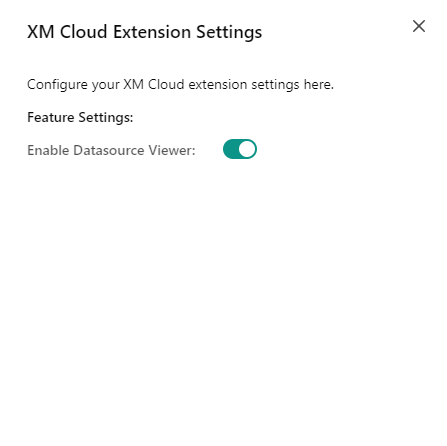
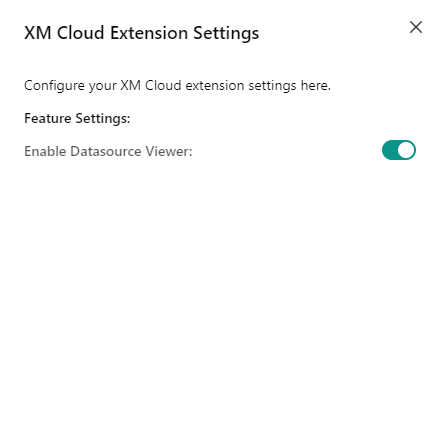
saving screens

diff --git a/popup/settings.tsx b/popup/settings.tsx
@@ -2,9 +2,11 @@ declare const chrome: any;
 
 import {
     Box,
+    Flex,
     FormControl,
     FormLabel,
     SimpleGrid,
+    Spacer,
     Stack,
     Switch,
     Text,
@@ -17,7 +19,7 @@ const Settings = () => {
     const [datasourceEnabled, setDatasourceEnabled] = useState(true);
 
     useEffect(() => {
-        // Load extension settings on component mount
+        // Load extension settings
         chrome.storage.sync.get('datasourceEnabled', (result: { datasourceEnabled?: boolean }) => {
             setDatasourceEnabled(result.datasourceEnabled ?? true);
         });
@@ -43,26 +45,28 @@ const Settings = () => {
                 </Text>
             </Box>
 
-            {/* Datasource Viewer Setting */}
+            {/* Feature list */}
             <Box>
-                <FormControl as={SimpleGrid} columns={{ base: 2, lg: 4 }}>
-                    <FormLabel htmlFor='datasourceSwitch'>
+                <FormControl as={SimpleGrid}>
+                    <Flex>
                         <Tooltip
                             label="Displays direct Explorer/Content Editor link for data source items in the 'Assign Content Item' dialog">
-                            Enable Datasource Viewer:
+                            <FormLabel htmlFor='datasourceSwitch'>
+                                Enable Datasource Viewer:
+                            </FormLabel>
                         </Tooltip>
-                    </FormLabel>
-                    <Switch
-                        id='datasourceSwitch'
-                        isChecked={datasourceEnabled}
-                        onChange={handleSwitchChange}
-                    />
-                </FormControl>
-            </Box>
+                        <Spacer />
+                        <Switch
+                            id='datasourceSwitch'
+                            isChecked={datasourceEnabled}
+                            onChange={handleSwitchChange}
+                        />
 
-            {/* Additional settings or components can be added here */}
+                    </Flex>
+                </FormControl>
+                {/* Additional feature switches can be added here */}
+            </Box>
             <Wrap>
-                {/* Additional settings or components can be added here */}
             </Wrap>
         </Stack>
     );

diff --git a/content-script/datasource-viewer.ts b/content-script/datasource-viewer.ts
@@ -59,7 +59,7 @@ const datasourceViewer = () => {
         mutations.forEach((mutation) => {
           mutation.addedNodes.forEach((addedNode) => {
             if (addedNode instanceof HTMLElement && addedNode.closest('app-datasource-picker')) {
-              console.log('DOM changed from extension within app-datasource-picker');
+              console.debug('DOM changed from extension within app-datasource-picker');
 
               const elementsWithDataItemId = addedNode.querySelectorAll('[data-itemid]') as NodeListOf<HTMLElement>;
 
@@ -79,7 +79,7 @@ const datasourceViewer = () => {
                   const explorerUrl = constructExplorerUrl(queryParams);
                   const contentEditorUrl = constructContentEditorUrl(queryParams);
                   const linkSpan = createLinkSpan(explorerUrl, contentEditorUrl);
-                  
+
                   element.appendChild(linkSpan);
                 }
               });
